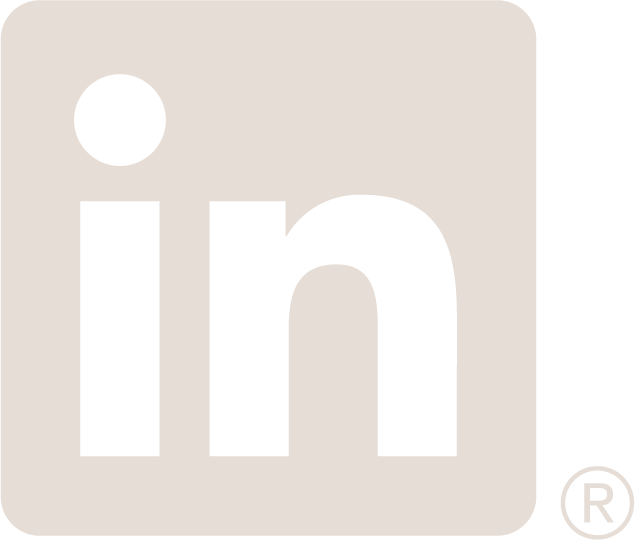
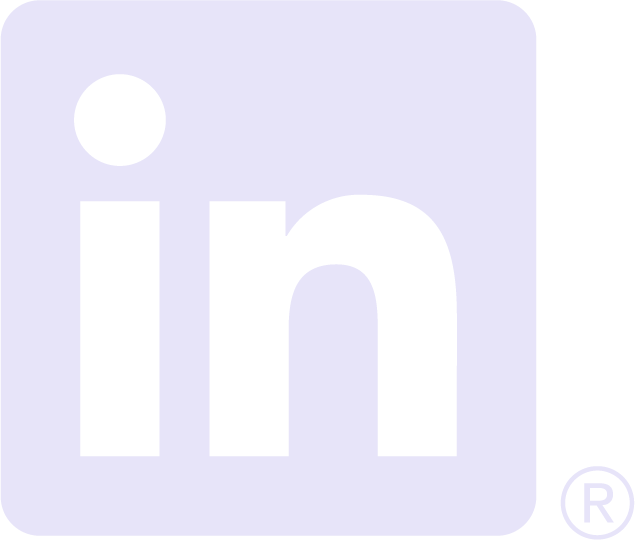
Finished Home Page

diff --git a/testing.css b/testing.css
@@ -4,21 +4,27 @@
   box-sizing: border-box;
 }
 
-html, body{
-
+html{
+  height: 100%;
+  margin: 0%;
   width: 100%;
-  height: 200vh;
-  margin: 0px;
   padding: 0px;
+  overflow-x: visible;
+}
+
+::-webkit-scrollbar {
+    display: none;
+}
+
+body{
   font-family: "Roboto", sans-serif;
-  overflow-x: hidden; 
   flex: display;
   flex-direction: column;
   background-color: #E7E4F9;
 }
 
 main{
-  height: 200vh;
+  padding-bottom: 0%;
   display: block;
 }
 
@@ -253,11 +259,227 @@ nav{
   opacity: 75%;
 }
 
-footer{
-  flex-grow: 0;
-  color: #e6ddd6;
+.UpdatesTitle{
+  padding-top: 6%;
+  text-align: center;
+  color: #E7E4F9;
 }
 
-::-webkit-scrollbar {
-    display: none;
+.UpdatesTitle h1{
+  font-size: 3.65vw;
+}
+
+.UpdatesTitle h2{
+  font-size: 2vw;
+  font-weight: normal;
+  opacity: 66%;
+  padding-bottom: 5.5%;
+}
+
+.UpdatesContainer {
+  margin-left: 18%;
+  margin-right: 18%;
+  display: flex;
+  flex-direction: row;
+  justify-content: center;
+}
+
+.Update1 {
+  flex: 33.66667%;
+  margin-right: 0.5%;
+  background-color: #E7E4F9;
+  padding-bottom: 18%;
+}
+
+.Update2 {
+  flex: 33.66667%;
+  margin-right: 0.5%;
+  margin-left: 0.5%;
+  background-color: #E7E4F9;
+  padding-bottom: 18%;
+}
+
+.Update3 {
+  flex: 33.66667%;
+  margin-left: 0.5%;
+  background-color: #E7E4F9;
+  padding-bottom: 18%;
+}
+
+footer{
+  background-color: #120348;
+  color: #e6ddd6;
+  
+}
+
+footer h1{
+  color: #E7E4F9;
+  font-size: 1.1vw;
+
+}
+.footerMain{
+  margin-left: 18.5%;
+  margin-right: 11%;
+  display: flex;
+  flex-direction: row;
+  justify-content: center;
+  padding-bottom: 2%;
+}
+.ContactMe{
+  font-size: 0.7vw;
+  margin-top: 3.5%;
+  color: #E7E4F9;
+  opacity: 66%;
+  flex: 1 1 0;
+  width: 0;
+}
+
+.AddressContainer{
+  margin-top: 7%;
+  display: flex;
+  flex-direction: row;
+}
+
+.LetterIconContainer{
+  width: 10%;
+  height: 10%;
+}
+
+.Address{
+  margin-left: 5%;
+}
+
+.PhoneContainer{
+  display: flex;
+  flex-direction: row;
+}
+
+.PhoneIconContainer{
+  width: 9%;
+  height: 9%;
+}
+
+.PhoneNumber{
+  margin-left: 5%;
+  margin-top: 2%;
+}
+
+.MobileContainer{
+  margin-top: 3%;
+  display: flex;
+  flex-direction: row;
+}
+
+.MobileIconContainer{
+  width: 7%;
+  height: 7%;
+  margin-left: 2%;
+}
+
+.MobileNumber{
+  margin-top: 2%;
+  margin-left: 5%;
+}
+
+.EmailContainer{
+  margin-top: 3%;
+  display: flex;
+  flex-direction: row;
+}
+
+.EmailIconContainer{
+  width: 9%;
+  height: 9%;
+}
+
+.Email{
+  margin-top: 2%;
+  margin-left: 5%;
+}
+
+.NavSiteContainer{
+  margin-top: 3.5%;
+  margin-left: 12%;
+  opacity: 66%;
+  flex: 1 1 0;
+  width: 0;
+}
+
+.NavSiteLinksContainer{
+  color: #E7E4F9;
+  font-size: 1vw;
+  text-decoration: none;
+  margin-left: 8%;
+  margin-top: 2%;
+  font-weight: normal;
+}
+
+.site-links{
+  list-style: none;
+  flex-direction: column;
+  padding-top: 5%;
+  padding-bottom: 5%;
+  font-size: 0.7vw;
+  font-weight: normal;
+}
+
+.site-link{
+  display: inline-block;
+  color: #E7E4F9;
+  font-size: 0.7vw;
+  text-decoration: none;
+  font-weight: normal;
+  margin-bottom: 3%;
+}
+
+.Connections{
+  margin-top: 3.5%;
+  opacity: 66%;
+  color: #E7E4F9;
+  flex: 1 1 0;
+  width: 0;
+}
+
+.ConnectionsTitle{
+  text-align: center;
+  margin-bottom: 2%;
+}
+
+.IconsContainer{
+  display: flex;
+  flex-direction: column;
+  justify-content: center;
+}
+
+.ArtstationContainer{
+  display: flex;
+  justify-content: center;
+}
+
+.LinkedInContainer{
+  display: flex;
+  justify-content: center;
+}
+.ArtstationContainer img{
+  width: 19%;
+  height: 19%;
+  margin-right: 2%;
+}
+
+.LinkedInContainer img{
+  width: 12%;
+  height: 12%;
+}
+
+.copyrightSection{
+  padding-top: 2%;
+  background-color: #3A2081;
+  padding-bottom: 2%;
+}
+
+.CopyrightText{
+  color: #E7E4F9;
+  opacity: 33%;
+  font-size: 1.25vw;
+  text-align: center;
 }

diff --git a/index.html b/index.html
@@ -75,15 +75,102 @@
       </div>
     </div>
     <div class = "UpdatesShort">
-    
+      <div class = "UpdatesTitle">
+        <h1>Latest Content</h1>
+        <h2>My latest updates from across the net</h2>
+      </div>
+      <div class = "UpdatesContainer">
+        <div class = "Update1"></div>
+        <div class = "Update2"></div>
+        <div class = "Update3"></div>
+      </div>
     </div>
-
   </main>
   <footer>
     <div class = "footerMain">
+      <div class = "ContactMe">
+        <div class = "ContactTitle">
+          <h1>CONTACT ME</h1>
+        </div>
+        <div class = "ContactContainer">
+          <div class = "AddressContainer">
+            <div class = "LetterIconContainer">
+              <img src = "images/envelope-solid.svg"/>            
+            </div>
+            <div class = "Address">
+              <p>221 Crewe Road North,</p>
+              <p>Edinburgh,</p>
+              <p>Scotland,</p>
+              <p>United Kingdom,</p>
+              <p>EH5 1LR</p>
+              <br>
+              <br>
+            </div>
+          </div>
+          <div class = "PhoneContainer">
+            <div class = "PhoneIconContainer">
+              <img src = "images/phone-solid.svg"/>
+            </div>
+            <div class = "PhoneNumber">
+              +44(0)131 551 6294
+              <br>
+              <br>
+            </div>
+          </div>
+          <div class = "MobileContainer">
+            <div class = "MobileIconContainer">
+              <img src = "images/mobile-screen-solid.svg"/>
+            </div>
+            <div class = "MobileNumber">
+              +44(0)7962 911107
+              <br>
+              <br>
+            </div>
+          </div>
+          <div class = "EmailContainer">
+            <div class = "EmailIconContainer">
+              <img src = "images/at-solid.svg"/>
+            </div>
+            <div class = "Email">
+              SamanthaAHannah@outlook.com
+            </div>
+          </div>
+        </div>
+      </div>
+      <div class = "NavSiteContainer">
+        <div class = "NavSiteTitle">
+          <h1>NAVIGATE SITE</h1>
+        </div>
+        <div class = "NavSiteLinksContainer">
+           <ul class="site-links">
+            <li><a class="site-link" href="#">Home</a></li>
+            <li><a class="site-link" href="#">About Me</a></li>
+            <li><a class="site-link" href="#">Latest</a></li>
+            <li><a class="site-link" href="#">My Portfolio</a></li>
+            <li><a class="site-link" href="#">My Services</a></li>
+            <li><a class="site-link" href="c#">Contact Me</a></li>
+          </ul>
+        </div>
+      </div>
+      <div class = "Connections">
+        <div class = "ConnectionsTitle">
+          <h1>CONNECT WITH ME</h1>
+        </div>
+        <div class = "IconsContainer">
+          <div class = "ArtstationContainer">
+            <img src = "images/Artstation_Artboard 1.png" />
+          </div>
+          <div class = "LinkedInContainer">
+            <img src = "images/LI-In-Bug.png" />
+          </div>
+        </div>
+        </div>
+      </div>
     </div>
     <div class = "copyrightSection">
-      
+      <div class="CopyrightText">
+        <p>©Copyright 2022. All Rights Reserved. Hannah Graphics</p>
+      </div> 
     </div>
   </footer>
 </body>
